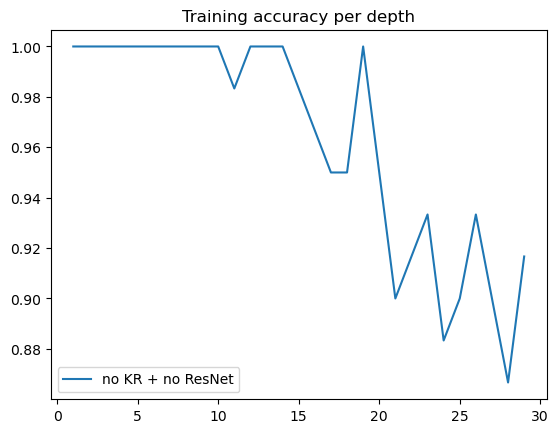
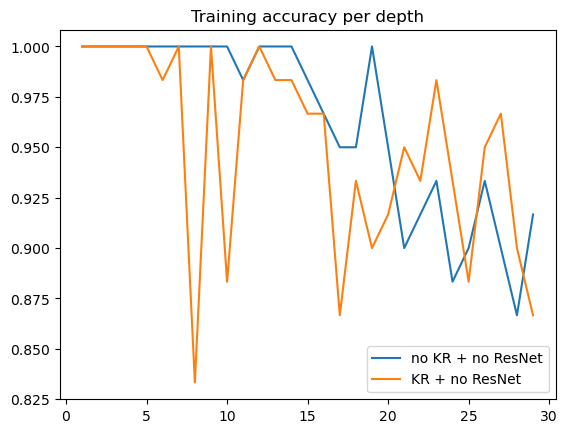
exp 2 results

diff --git a/src/make_graphs.py b/src/make_graphs.py
@@ -69,12 +69,12 @@ main function
 
 def main():
     make_exp_plot(
-        experiments=[(1, "no KR + no ResNet")],
+        experiments=[(1, "no KR + no ResNet"), (2, "KR + no ResNet")],
         y_tag="train loss", x_tag="depth",
         title="Training loss per depth"
     )
     make_exp_plot(
-        experiments=[(1, "no KR + no ResNet")],
+        experiments=[(1, "no KR + no ResNet"), (2, "KR + no ResNet")],
         y_tag="train accuracy", x_tag="depth",
         title="Training accuracy per depth"
     )
